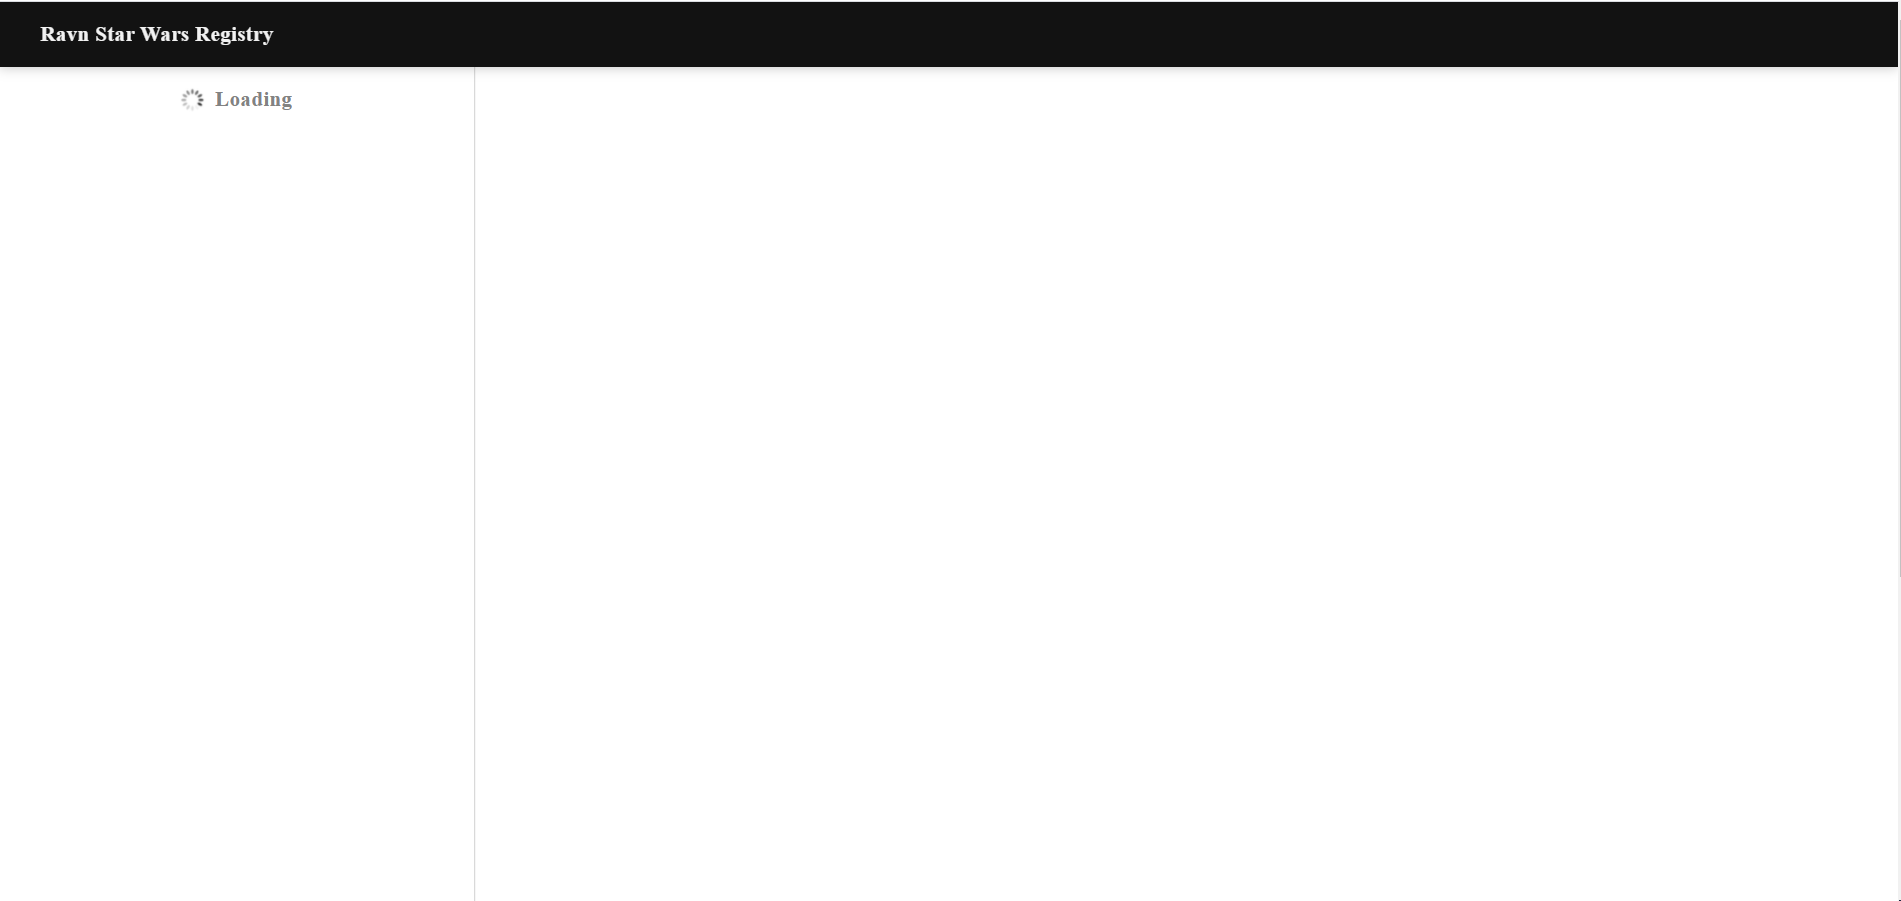
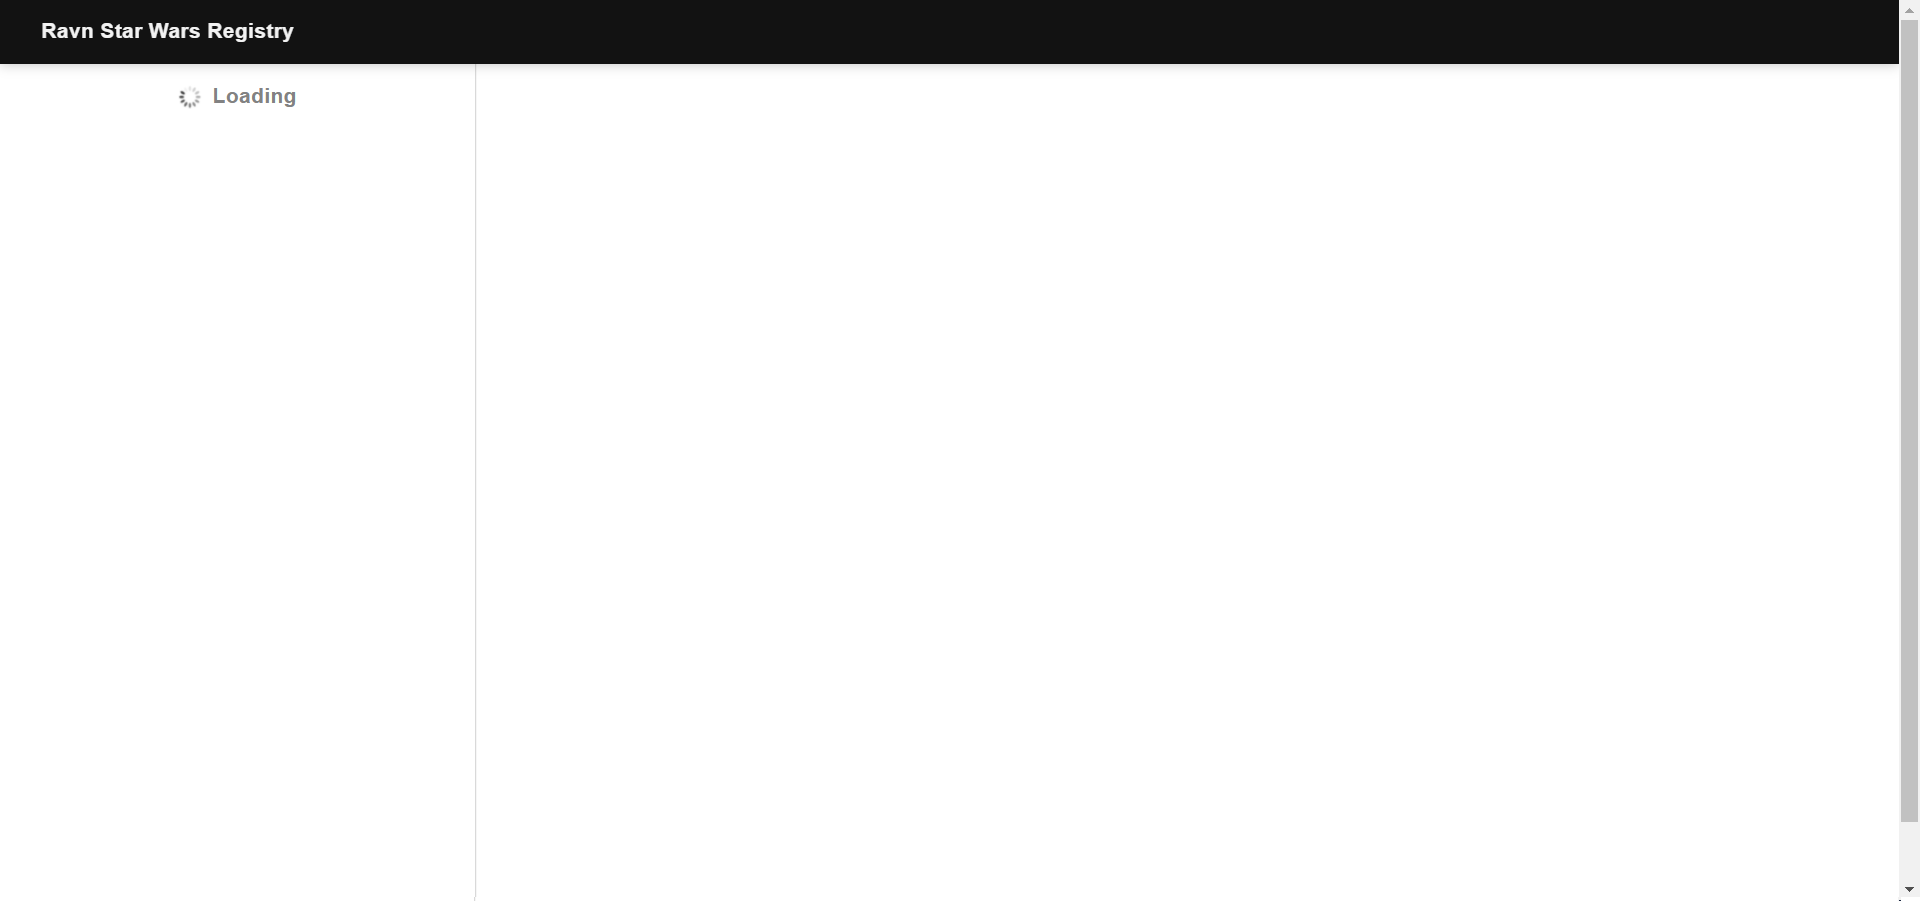
docs: updated photos with arial font

Changed region(s): [[0.0, 0.0, 1.0, 0.9323]]

diff --git a/star-wars/src/hooks/getPerson.js b/star-wars/src/hooks/getPerson.js
@@ -1,5 +1,6 @@
-import { useEffect, useState } from 'react'
+import { useEffect, useState, useRef } from 'react'
 import Api from '../api/api'
+
 
 
 export default function useGetPerson(personId) {
@@ -10,28 +11,36 @@ export default function useGetPerson(personId) {
 
     const axois_config = new Api()
 
+    const mountRef = useRef(false)
+
     useEffect(() => {
 
-        setPerson(null)
-        if (person) {
+        console.log(mountRef.current)
+
+        if (mountRef.current) {
+
+            setPerson(null)
             setLoading(true)
-        }
-        setError(false)
+            setError(false)
 
-        axois_config.getInstance().get('person/' + personId).then(res => {
+            axois_config.getInstance().get('person/' + personId).then(res => {
 
-            setPerson(prevPerson => res.data)
-            setLoading(false)
+                setPerson(prevPerson => res.data)
+                setLoading(false)
 
-        }).catch(e => {
+            }).catch(e => {
 
-            setLoading(false)
-            if (person) {
+                setLoading(false)
                 setError(true)
-            }
+
+            })
+
+        }
+        else{
+            mountRef.current = true 
+        }
 
 
-        })
     }, [personId])
 
     return { loading, error, person }

diff --git a/star-wars/src/App.js b/star-wars/src/App.js
@@ -12,6 +12,7 @@ function App() {
 
   const [personId, setPersonId] = useState(null)
 
+
   const {loading, error, person} = useGetPerson(personId)
 
   const renderPersonData = () => {

diff --git a/star-wars/src/index.css b/star-wars/src/index.css
@@ -1,6 +1,6 @@
 body {
   margin: 0;
-  font-family: 'SF Pro Display';
+  font-family: 'Arial','SF Pro Display';
   font-style: normal;
   letter-spacing: 0.0125em;
 }

diff --git a/star-wars/src/components/PersonData.js b/star-wars/src/components/PersonData.js
@@ -1,4 +1,3 @@
-import { useState } from 'react';
 import '../styles/PersonData.css';
 
 const SectionPersonDataRow = (props) => {

diff --git a/README.md b/README.md
@@ -1,3 +1,9 @@
 # Ravn-Challenge-Django
 Repository for the Ravn Django Code Challenge
 Author: Adriana Fabiola Gutiérrez Montoya
+
+## Technologies used
+- Django REST framework
+- ReactJs library
+
+## Project Description
